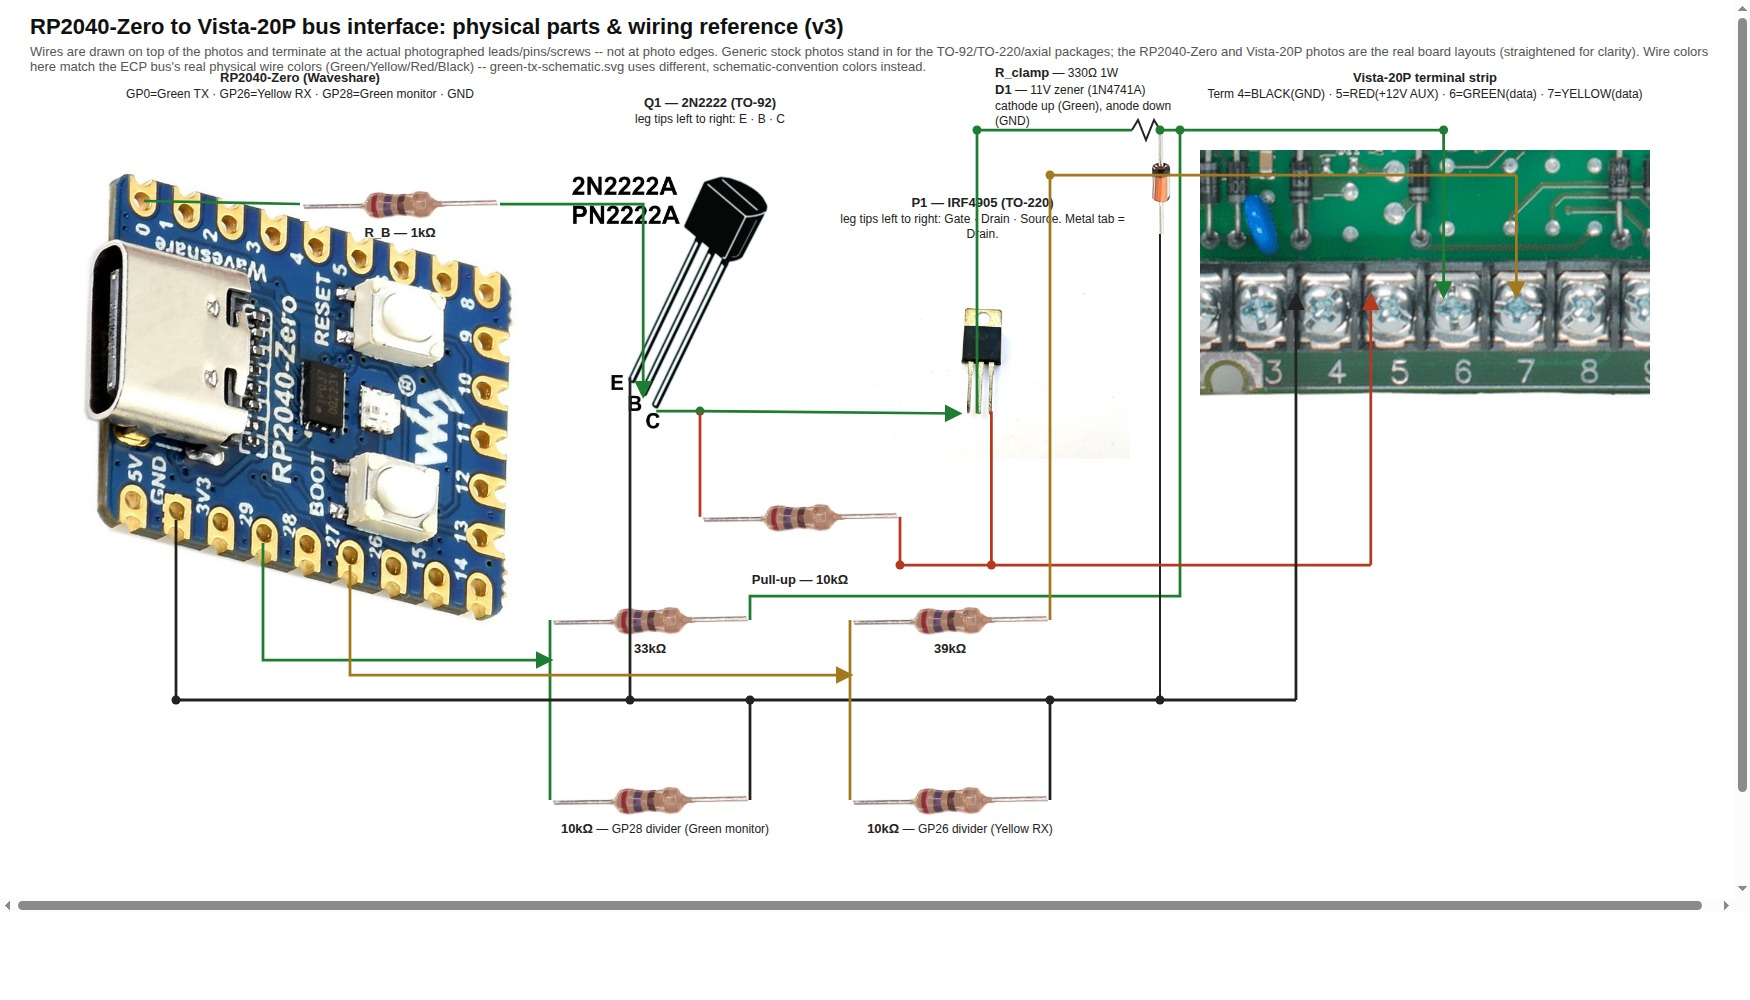
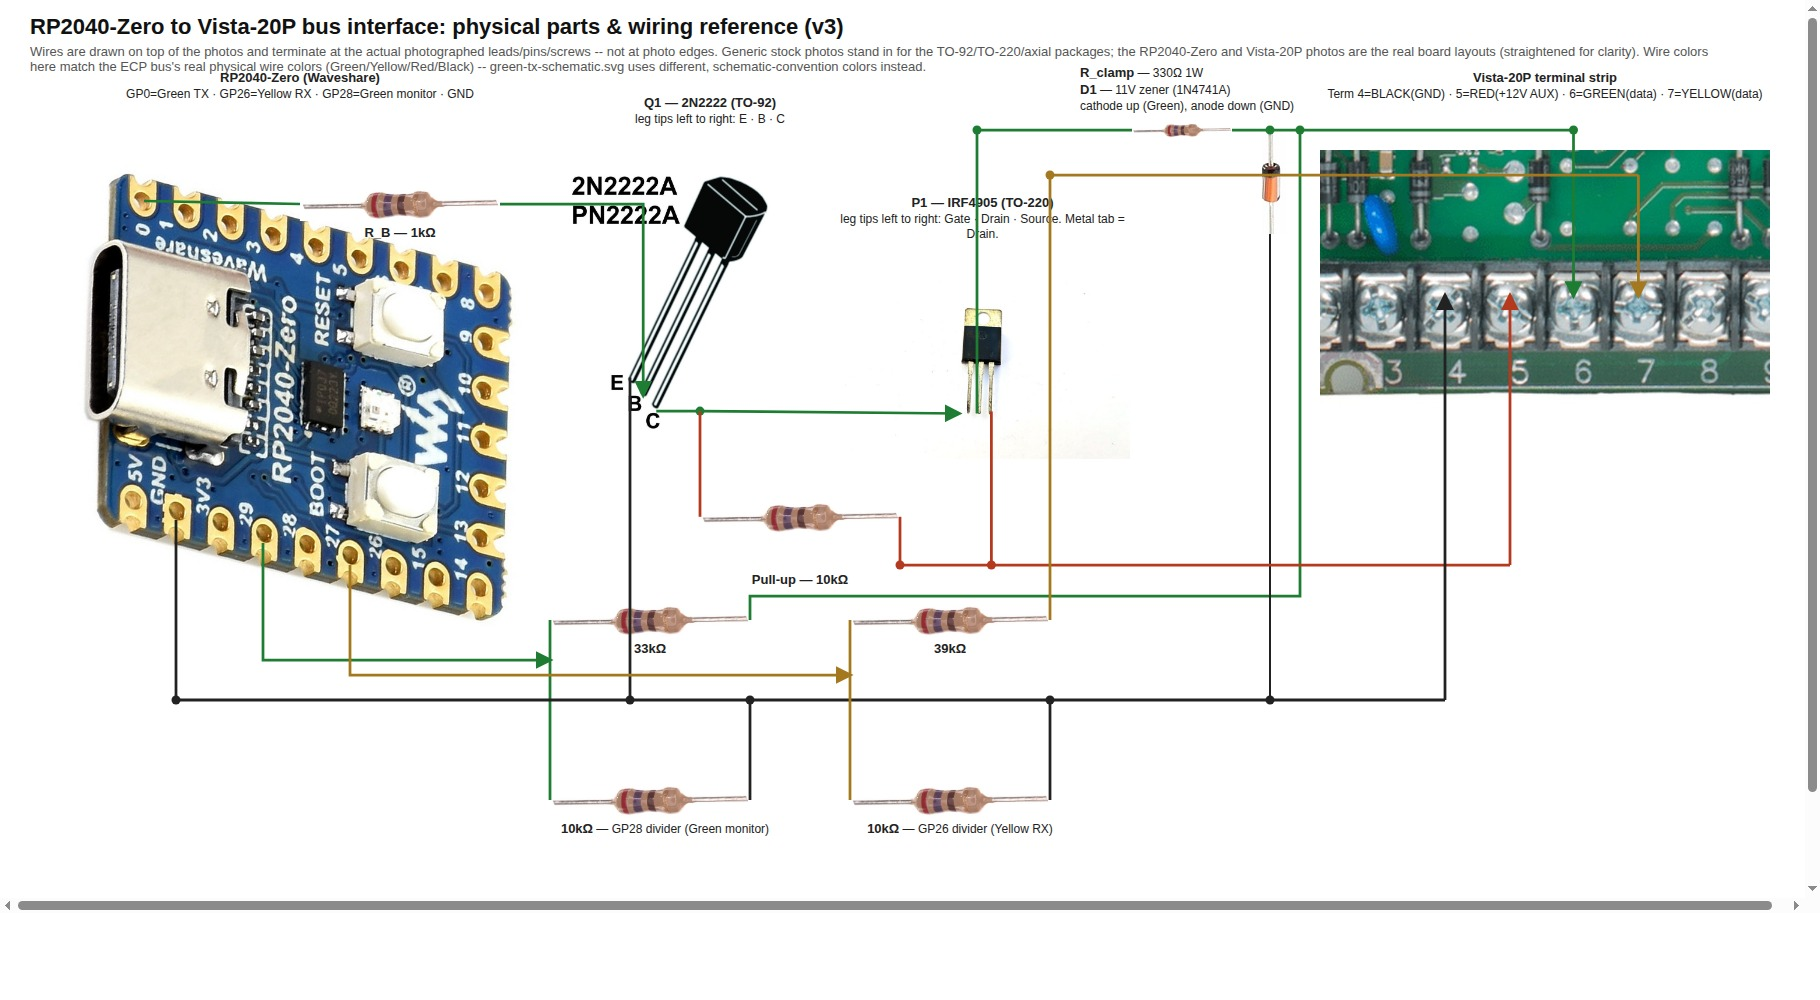
Show R_clamp as a real resistor photo; center panel wires on the screws (#103)
R_clamp was the one component on this page still drawn as an SVG
zigzag symbol instead of a real photo, inconsistent with every other
resistor here (R_B, pull-up, both dividers all use photos/resistor.jpg
already). Widened the page (1750->1820) to make room, placed the same
resistor.jpg stand-in in-line on the Green rail between P1's drain and
D1, and moved D1 + the Vista-20P terminal photo right to fit.

Also measured the terminal strip's actual screw-head pixel centers
from photos/vista20p-terminals.jpg (weighted centroid of each screw's
bright pixels) instead of the roughly-guessed, evenly-spaced x values
previously used -- the four termination arrows (GND/AUX/Green/Yellow)
now land dead center on their screws instead of off to one side.

Claude-Session: https://claude.ai/code/session_01LoZdpHVGNxDdSZK8Eq1p6C

diff --git a/docs/hardware/green-tx-photo-reference.html b/docs/hardware/green-tx-photo-reference.html
@@ -6,7 +6,7 @@
   * { box-sizing: border-box; }
   body {
     margin: 0;
-    width: 1750px;
+    width: 1820px;
     height: 1000px;
     background: #ffffff;
     font-family: Helvetica, Arial, sans-serif;
@@ -20,7 +20,7 @@
   .legend { position: absolute; left: 30px; top: 930px; font-size: 13px; }
   .legend .row { display: inline-block; margin-right: 36px; }
   .legend .swatch { display: inline-block; width: 30px; height: 4px; vertical-align: middle; margin-right: 6px; }
-  svg.wires { position: absolute; left: 0; top: 0; width: 1750px; height: 1000px; pointer-events: none; }
+  svg.wires { position: absolute; left: 0; top: 0; width: 1820px; height: 1000px; pointer-events: none; }
 </style>
 </head>
 <body>
@@ -45,12 +45,13 @@
   <img class="part" src="photos/to220-mosfet.jpg" style="left:830px; top:259px; width:300px; height:199.8px;">
   <div class="label" style="left:825px; top:195px; width:315px;"><b>P1 &mdash; IRF4905 (TO-220)</b><br>leg tips left to right: Gate &middot; Drain &middot; Source. Metal tab = Drain.</div>
 
-  <div class="label" style="left:995px; top:65px; width:200px; text-align:left;"><b>R_clamp</b> &mdash; 330&#937; 1W</div>
-  <div class="label" style="left:995px; top:82px; width:200px; text-align:left;"><b>D1</b> &mdash; 11V zener (1N4741A)<br>cathode up (Green), anode down (GND)</div>
-  <img class="part" src="photos/diode.jpg" style="left:1152px; top:130px; width:24px; height:104px;">
+  <img class="part" src="photos/resistor.jpg" style="left:1132px; top:121.6px; width:100px; height:16.8px;">
+  <div class="label" style="left:1080px; top:65px; width:235px; text-align:left;"><b>R_clamp</b> &mdash; 330&#937; 1W</div>
+  <div class="label" style="left:1080px; top:82px; width:235px; text-align:left;"><b>D1</b> &mdash; 11V zener (1N4741A)<br>cathode up (Green), anode down (GND)</div>
+  <img class="part" src="photos/diode.jpg" style="left:1262px; top:130px; width:24px; height:104px;">
 
-  <img class="part" src="photos/vista20p-terminals.jpg" style="left:1200px; top:150px; width:450px; height:291.2px;">
-  <div class="label" style="left:1200px; top:70px; width:450px;"><b>Vista-20P terminal strip</b><br>Term 4=BLACK(GND) &middot; 5=RED(+12V AUX) &middot; 6=GREEN(data) &middot; 7=YELLOW(data)</div>
+  <img class="part" src="photos/vista20p-terminals.jpg" style="left:1320px; top:150px; width:450px; height:291.2px;">
+  <div class="label" style="left:1320px; top:70px; width:450px;"><b>Vista-20P terminal strip</b><br>Term 4=BLACK(GND) &middot; 5=RED(+12V AUX) &middot; 6=GREEN(data) &middot; 7=YELLOW(data)</div>
 
   <img class="part" src="photos/resistor.jpg" style="left:550px; top:603.2px; width:200px; height:33.6px;">
   <div class="label" style="left:550px; top:641px; width:200px;"><b>33k&#937;</b></div>
@@ -63,7 +64,7 @@
   <div class="label" style="left:850px; top:821px; width:220px;"><b>10k&#937;</b> &mdash; GP26 divider (Yellow RX)</div>
 
   <!-- ===== Wires (drawn ON TOP of photos, terminating exactly at leg/pin/screw pixels) ===== -->
-  <svg class="wires" viewBox="0 0 1750 1000">
+  <svg class="wires" viewBox="0 0 1820 1000">
     <defs>
       <marker id="a" viewBox="0 0 10 10" refX="8" refY="5" markerWidth="6.5" markerHeight="6.5" orient="auto-start-reverse"><path d="M0,0 L10,5 L0,10 z" fill="#222"/></marker>
       <marker id="aGreen" viewBox="0 0 10 10" refX="8" refY="5" markerWidth="6.5" markerHeight="6.5" orient="auto-start-reverse"><path d="M0,0 L10,5 L0,10 z" fill="#1e7d32"/></marker>
@@ -81,74 +82,77 @@
     <path d="M 263,543 L 263,660 L 550,660" stroke="#1e7d32" stroke-width="2.75" fill="none" marker-end="url(#aGreen)"/>
     <path d="M 550,620 L 550,800" stroke="#1e7d32" stroke-width="2.75" fill="none"/>
     <!-- 33k resistor's far lead (GP28 monitor divider's own "Green bus"
-         input) jogs right to join the rail at x=1180, on the clamped
+         input) jogs right to join the rail at x=1300, on the clamped
          side of R_clamp/D1 below; it needs to read the same clamped
          voltage the panel itself sees, same as it would tap the same
          real physical Green wire on the actual bench build (same fix as
-         green-tx-schematic.svg's Lane B). x=1180 clears D1's photo
-         (left:1152 width:24, so its right edge is at 1176) -- this
-         used to run straight down through the photo at x=1160. -->
-    <path d="M 750,620 L 750,596 L 1180,596 L 1180,130" stroke="#1e7d32" stroke-width="2.75" fill="none"/>
-    <circle cx="1180" cy="130" r="4.5" fill="#1e7d32"/>
+         green-tx-schematic.svg's Lane B). x=1300 clears D1's photo
+         (left:1262 width:24, so its right edge is at 1286). -->
+    <path d="M 750,620 L 750,596 L 1300,596 L 1300,130" stroke="#1e7d32" stroke-width="2.75" fill="none"/>
+    <circle cx="1300" cy="130" r="4.5" fill="#1e7d32"/>
     <circle cx="977" cy="130" r="4.5" fill="#1e7d32"/>
-    <!-- Bridges P1's drain (dot above, x=977) to R_clamp's own start
-         (x=1132) -- without this segment the drain wire just stops in
+    <!-- Bridges P1's drain (dot above, x=977) to R_clamp's own photo
+         (left:1132) -- without this segment the drain wire just stops in
          open space above P1, short of R_clamp/D1 entirely. -->
     <path d="M 977,130 L 1132,130" stroke="#1e7d32" stroke-width="2.75" fill="none"/>
 
-    <!-- R_clamp (drawn, no stock photo for the value) + D1 (real photo,
-         photos/diode.jpg, cathode/black-band end up toward Green -- see
-         the img tag above). Kept at x<1195 (the Vista-20P terminal
-         photo starts at x=1200) so nothing here overlaps it. Clamps
-         P1's drain (raw AUX rail, ~14V measured) down to roughly a real
-         keypad's own output (~11.7V measured) before Green reaches the
-         panel; see HARDWARE_ARCHITECTURE.md "Still open" item 1 for why. -->
-    <path d="M 1132,130 L 1138,120 L 1146,140 L 1154,120 L 1160,130" stroke="#222" stroke-width="2" fill="none"/>
-    <circle cx="1160" cy="130" r="4.5" fill="#1e7d32"/>
+    <!-- R_clamp: real resistor.jpg photo (same stand-in used for every
+         other resistor on this page), not a drawn schematic symbol.
+         Its leads span the image's own width (1132 to 1232), matching
+         how R_B/pull-up/divider resistors connect elsewhere on this
+         page. Stub from its right lead to D1's own photographed lead
+         (x=1270, see D1 below) + D1 (real photo, photos/diode.jpg,
+         cathode/black-band end up toward Green -- see the img tag
+         above). Kept well clear of the Vista-20P terminal photo
+         (left:1320). Clamps P1's drain (raw AUX rail, ~14V measured)
+         down to roughly a real keypad's own output (~11.7V measured)
+         before Green reaches the panel; see HARDWARE_ARCHITECTURE.md
+         "Still open" item 1 for why. -->
+    <path d="M 1232,130 L 1270,130" stroke="#1e7d32" stroke-width="2.75" fill="none"/>
+    <circle cx="1270" cy="130" r="4.5" fill="#1e7d32"/>
     <!-- D1's photo (top:130 to top:234) covers the gold Yellow-wire
          crossing at y=175 -- same as the green/red wires already
          crossing through Q1's and P1's own photos elsewhere on this
-         page, not a new kind of overlap. Bottom wire x=1160 matches
-         the photographed lead's actual pixel position at the image's
-         bottom edge (measured directly from photos/diode.jpg), not
-         just the image's own box center. -->
-    <path d="M 1160,234 L 1160,700" stroke="#222" stroke-width="2" fill="none"/>
-    <circle cx="1160" cy="700" r="4.5" fill="#222"/>
+         page, not a new kind of overlap. Wire x=1270 matches the
+         photographed lead's actual pixel position (measured directly
+         from photos/diode.jpg), not just the image's own box center. -->
+    <path d="M 1270,234 L 1270,700" stroke="#222" stroke-width="2" fill="none"/>
+    <circle cx="1270" cy="700" r="4.5" fill="#222"/>
 
-    <path d="M 1160,130 L 1443.6,130" stroke="#1e7d32" stroke-width="2.75" fill="none"/>
-    <circle cx="1443.6" cy="130" r="4.5" fill="#1e7d32"/>
-    <path d="M 1443.6,130 L 1443.6,295.6" stroke="#1e7d32" stroke-width="2.75" fill="none" marker-end="url(#aGreen)"/>
+    <path d="M 1270,130 L 1573.5,130" stroke="#1e7d32" stroke-width="2.75" fill="none"/>
+    <circle cx="1573.5" cy="130" r="4.5" fill="#1e7d32"/>
+    <path d="M 1573.5,130 L 1573.5,295.6" stroke="#1e7d32" stroke-width="2.75" fill="none" marker-end="url(#aGreen)"/>
 
     <!-- Red: +12V AUX rail (Panel RED) -->
     <path d="M 700,411.1 L 700,516.8" stroke="#b5391f" stroke-width="2.75" fill="none"/>
     <path d="M 900,516.8 L 900,565" stroke="#b5391f" stroke-width="2.75" fill="none"/>
     <path d="M 991.4,411.4 L 991.4,565" stroke="#b5391f" stroke-width="2.75" fill="none"/>
-    <path d="M 900,565 L 1370.8,565" stroke="#b5391f" stroke-width="2.75" fill="none"/>
+    <path d="M 900,565 L 1510,565" stroke="#b5391f" stroke-width="2.75" fill="none"/>
     <circle cx="900" cy="565" r="4.5" fill="#b5391f"/>
     <circle cx="991.4" cy="565" r="4.5" fill="#b5391f"/>
-    <path d="M 1370.8,565 L 1370.8,295.6" stroke="#b5391f" stroke-width="2.75" fill="none" marker-end="url(#aRed)"/>
+    <path d="M 1510,565 L 1510,295.6" stroke="#b5391f" stroke-width="2.75" fill="none" marker-end="url(#aRed)"/>
 
     <!-- Black: GND bus (Panel BLACK). Lands on the pin actually
          silkscreened GND -- the pin one to the right of 5V, not on
          5V itself. -->
     <path d="M 176,520 L 176,700" stroke="#222" stroke-width="2.75" fill="none"/>
     <path d="M 630,377.6 L 630,700" stroke="#222" stroke-width="2.75" fill="none"/>
-    <path d="M 176,700 L 1295.96,700" stroke="#222" stroke-width="3" fill="none"/>
+    <path d="M 176,700 L 1445,700" stroke="#222" stroke-width="3" fill="none"/>
     <circle cx="176" cy="700" r="4.5" fill="#222"/>
     <circle cx="630" cy="700" r="4.5" fill="#222"/>
     <circle cx="750" cy="700" r="4.5" fill="#222"/>
     <circle cx="1050" cy="700" r="4.5" fill="#222"/>
     <path d="M 750,800 L 750,700" stroke="#222" stroke-width="2.75" fill="none"/>
     <path d="M 1050,800 L 1050,700" stroke="#222" stroke-width="2.75" fill="none"/>
-    <path d="M 1295.96,700 L 1295.96,295.6" stroke="#222" stroke-width="2.75" fill="none" marker-end="url(#a)"/>
+    <path d="M 1445,700 L 1445,295.6" stroke="#222" stroke-width="2.75" fill="none" marker-end="url(#a)"/>
 
     <!-- Gold/Yellow: physical Yellow ECP wire (GP26 RX divider) -->
     <path d="M 350,565 L 350,675 L 850,675" stroke="#a3781f" stroke-width="2.75" fill="none" marker-end="url(#aGold)"/>
     <path d="M 850,620 L 850,800" stroke="#a3781f" stroke-width="2.75" fill="none"/>
     <path d="M 1050,620 L 1050,175" stroke="#a3781f" stroke-width="2.75" fill="none"/>
-    <path d="M 1050,175 L 1516.4,175" stroke="#a3781f" stroke-width="2.75" fill="none"/>
+    <path d="M 1050,175 L 1638.4,175" stroke="#a3781f" stroke-width="2.75" fill="none"/>
     <circle cx="1050" cy="175" r="4.5" fill="#a3781f"/>
-    <path d="M 1516.4,175 L 1516.4,295.6" stroke="#a3781f" stroke-width="2.75" fill="none" marker-end="url(#aGold)"/>
+    <path d="M 1638.4,175 L 1638.4,295.6" stroke="#a3781f" stroke-width="2.75" fill="none" marker-end="url(#aGold)"/>
   </svg>
 
   <div class="legend">
